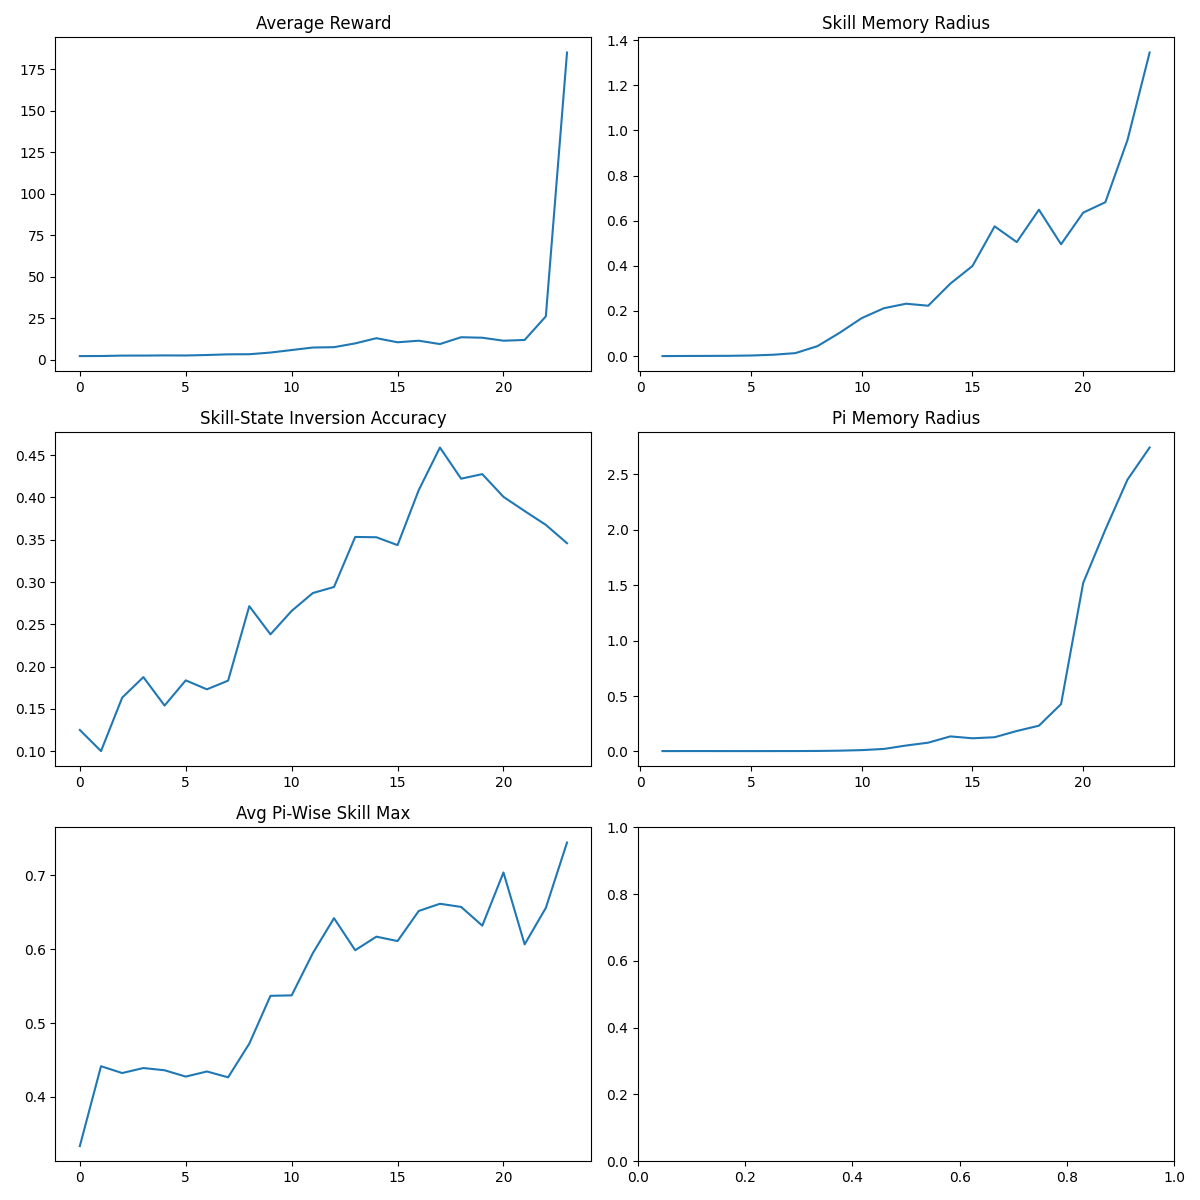
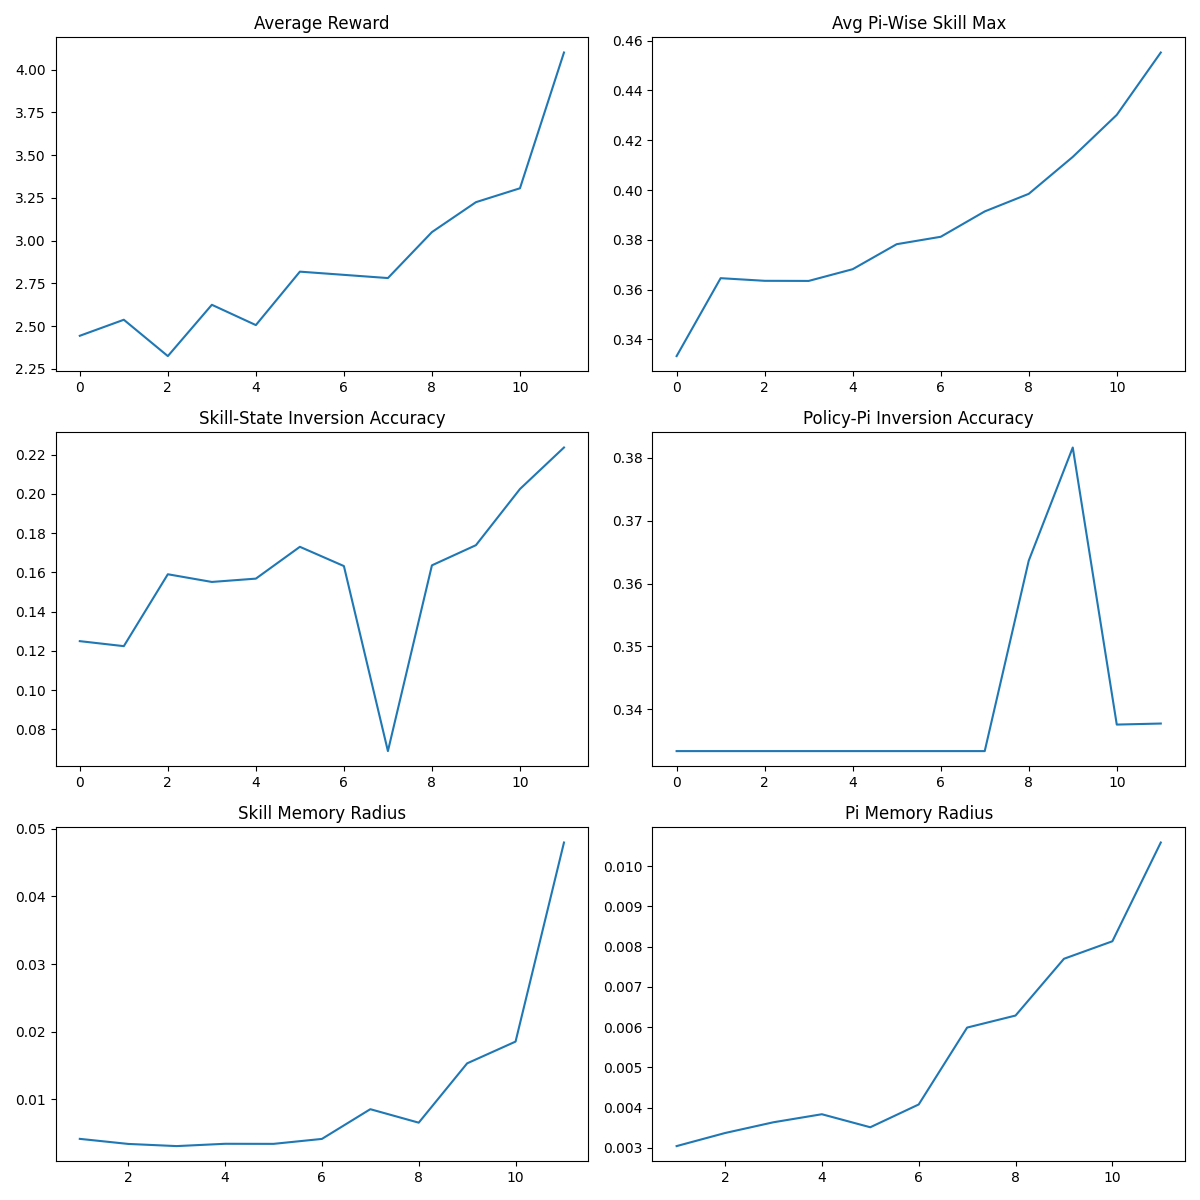
added pi encoding config option

diff --git a/quantum/environment.py b/quantum/environment.py
@@ -48,7 +48,7 @@ GRAFF = "logs/graff.png"
 CHECKPOINT = "local_data/checkpoint.pt"
 
 # model leaarning rate
-LEARNING_RATE = 1e-3
+LEARNING_RATE = 5e-4
 # model batch size
 BATCH_SIZE = 8
 
@@ -58,7 +58,7 @@ DISCOUNT = 0.95
 R_NORM = 10
 
 LAMBDA_SKILL = 0.25
-LAMBDA_PI = 0.0
+LAMBDA_PI = 0.1
 
 # whether to perform evaluation stochastically
 STOCH_EVAL = True
@@ -347,7 +347,7 @@ class TrainingEnv:
         # stack into tensors
         accum = [torch.stack(accum[i]) for i in range(len(accum))]
 
-        return accum[0], accum
+        return (accum[0], accum[3]), accum
 
 
 class BaseREINFORCE(nn.Module):
@@ -476,9 +476,11 @@ class BaseREINFORCE(nn.Module):
         
         enc_loss = F.cross_entropy(enc_outs, torch.arange(0, batch_size, dtype=torch.long).to(enc_outs.device))
 
-        pi_mask = torch.diag(torch.ones(pi_preds.shape[1], dtype=torch.bool)).to(pi_preds.device).reshape(-1).repeat(pi_preds.shape[0])
-        pi_probs = (torch.softmax(skill_logits, -1).detach().unsqueeze(-1)*torch.softmax(pi_preds, -1)).view(-1)[pi_mask]
-        pi_loss = torch.sum(pi_probs) / pi_preds.shape[0]
+        pi_mask = torch.diag(torch.ones(pi_preds.shape[1], dtype=torch.bool)).to(pi_preds.device)
+        pi_mask = pi_mask.unsqueeze(0).repeat(pi_preds.shape[0], 1, 1)
+        pi_probs = torch.log_softmax(pi_preds, -1)[pi_mask]
+        pi_probs *= torch.softmax(skill_logits, -1).view(-1).detach()
+        pi_loss = -torch.sum(pi_probs) / pi_preds.shape[0]
 
         return loss + (LAMBDA_SKILL * enc_loss) + (LAMBDA_PI * pi_loss)
 
@@ -503,6 +505,7 @@ class EnvLogger(Logger):
         self.skill_maxs = []
         self.skill_kls = []
         self.pi_kls = []
+        self.pi_accs = []
 
         # basic parameters
         self.log_loc = log_loc
@@ -513,7 +516,7 @@ class EnvLogger(Logger):
         try:
             with open(self.log_loc, 'w') as csvfile:
                 spamwriter = csv.writer(csvfile, dialect='excel')
-                spamwriter.writerow(["epoch", "avg_reward", "enc_acc", "skill_max", "skill_kl", "pi_kl"])
+                spamwriter.writerow(["epoch", "avg_reward", "skill_max", "enc_acc", "skill_kl", "pi_acc", "pi_kl"])
         except:
             pass
 
@@ -571,11 +574,21 @@ class EnvLogger(Logger):
                 tot += train_log[0][i][0].shape[0]*train_log[0][i][0].shape[1]*train_log[0][i][0].shape[2]
             pi_kl = (kl / tot).item()
 
+            corr = 0
+            tot = 0
+            for i in range(len(train_log[0])):
+                pi_targ = torch.arange(0, train_log[0][i][4].shape[1], dtype=torch.long).to(train_log[0][i][4].device)
+                pi_targ = torch.stack([pi_targ]*train_log[0][i][4].shape[0], dim=0)
+                corr += (torch.argmax(train_log[0][i][4], dim=-1) == pi_targ).sum()
+                tot += train_log[0][i][4].shape[0]*train_log[0][i][4].shape[1]
+            pi_acc = (corr / tot).item()
+
         else:
             acc = 1/BATCH_SIZE
             skill_max = 1/self.model.config.num_pi
             skill_kl = None
             pi_kl = None
+            pi_acc = 1/self.model.config.num_pi
 
 
         # save metrics
@@ -584,12 +597,13 @@ class EnvLogger(Logger):
         self.skill_maxs.append(skill_max)
         self.skill_kls.append(skill_kl)
         self.pi_kls.append(pi_kl)
+        self.pi_accs.append(pi_acc)
 
         # append metrics to csv file
         try:
             with open(self.log_loc, 'a') as csvfile:
                 spamwriter = csv.writer(csvfile, delimiter=',', lineterminator='\n')
-                spamwriter.writerow([len(self.avg_rewards)-2, curr_r, acc, skill_max, skill_kl, pi_kl]) # -2 because of init call
+                spamwriter.writerow([len(self.avg_rewards)-2, curr_r, skill_max, acc, skill_kl, pi_acc, pi_kl]) # -2 because of init call
         except:
             pass
 
@@ -602,14 +616,17 @@ class EnvLogger(Logger):
         ax[1,0].plot(self.enc_accs)
         ax[1,0].set_title(r"Skill-State Inversion Accuracy")
 
-        ax[2,0].plot(self.skill_maxs)
-        ax[2,0].set_title(r"Avg Pi-Wise Skill Max")
+        ax[0,1].plot(self.skill_maxs)
+        ax[0,1].set_title(r"Avg Pi-Wise Skill Max")
 
-        ax[0,1].plot(self.skill_kls)
-        ax[0,1].set_title(r"Skill Memory Radius")
+        ax[2,0].plot(self.skill_kls)
+        ax[2,0].set_title(r"Skill Memory Radius")
 
-        ax[1,1].plot(self.pi_kls)
-        ax[1,1].set_title(r"Pi Memory Radius")
+        ax[2,1].plot(self.pi_kls)
+        ax[2,1].set_title(r"Pi Memory Radius")
+
+        ax[1,1].plot(self.pi_accs)
+        ax[1,1].set_title(r"Policy-Pi Inversion Accuracy")
 
         fig.set_figwidth(12)
         fig.set_figheight(12)

diff --git a/quantum/quantum_policy.py b/quantum/quantum_policy.py
@@ -120,7 +120,7 @@ class QuantumPolicy(nn.Module):
 
 
     def forward(self, x):
-        states = x
+        states, dones = x
 
         assert states.dim() == 3
         assert states.shape[1] == self.config.skill_len
@@ -142,7 +142,10 @@ class QuantumPolicy(nn.Module):
         states_to_combo = torch.stack([states]*self.config.num_pi, dim=-2)
         assert states_to_combo.shape[:-1] == self.flattenActions(pi_logits).shape[:-1]
         combo = torch.cat((self.flattenActions(torch.softmax(pi_logits, dim=-1)), states_to_combo), dim=-1)
+        if not self.config.diff_pi:
+            combo = combo.detach()
         pi_preds = self.pi_encoder(combo)
+        pi_preds *= 1-dones.float().unsqueeze(-1).unsqueeze(-1)
         pi_preds = torch.mean(pi_preds, dim=1)
         pi_preds = self.pi_head(pi_preds)
 

diff --git a/quantum/configs.py b/quantum/configs.py
@@ -14,6 +14,7 @@ DefaultQuantumPolicy = Config(
 
     num_pi = 3,
     skill_len = 8,
+    diff_pi = False,
 
     delta_dim = 16,
     delta_layers = 2,
